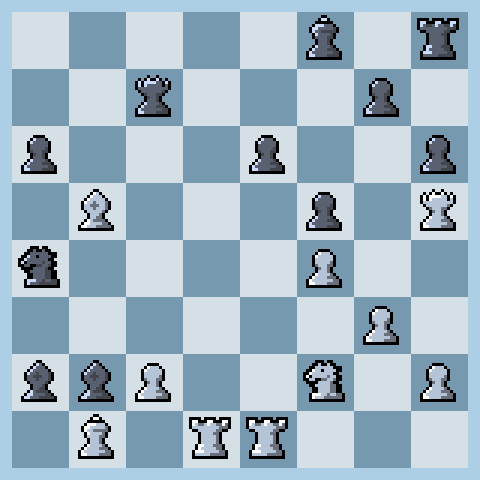
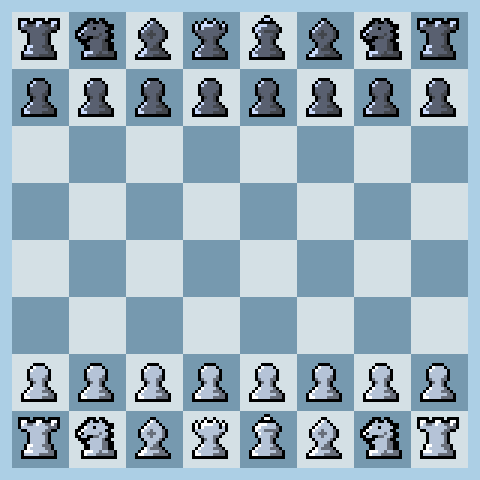
updated board

diff --git a/src/lib.rs b/src/lib.rs
@@ -132,7 +132,7 @@ mod tests {
     #[test]
     fn fen_to_board_img_test() {
         fen_to_board_img(
-            "5k1r/2q3p1/p3p2p/1B3p1Q/n4P2/6P1/bbP2N1P/1K1RR3",
+            "rnbqkbnr/pppppppp/8/8/8/8/PPPPPPPP/RNBQKBNR",
             "chess_board.png",
             3,
             ChessAssets::default(),
